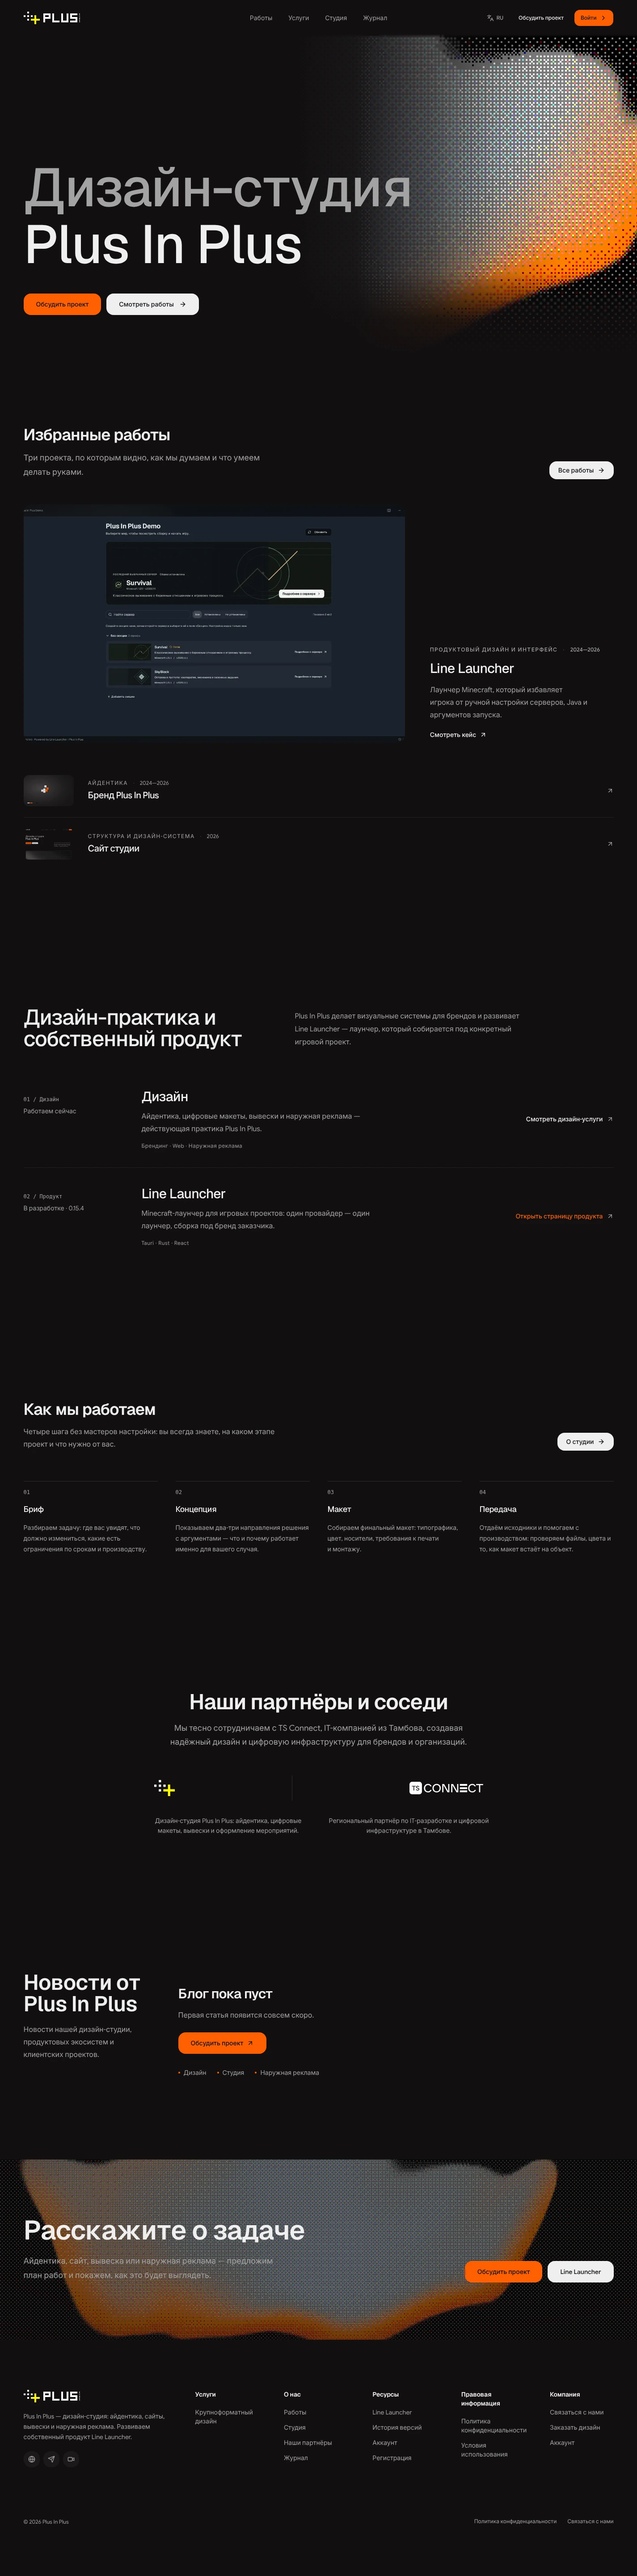
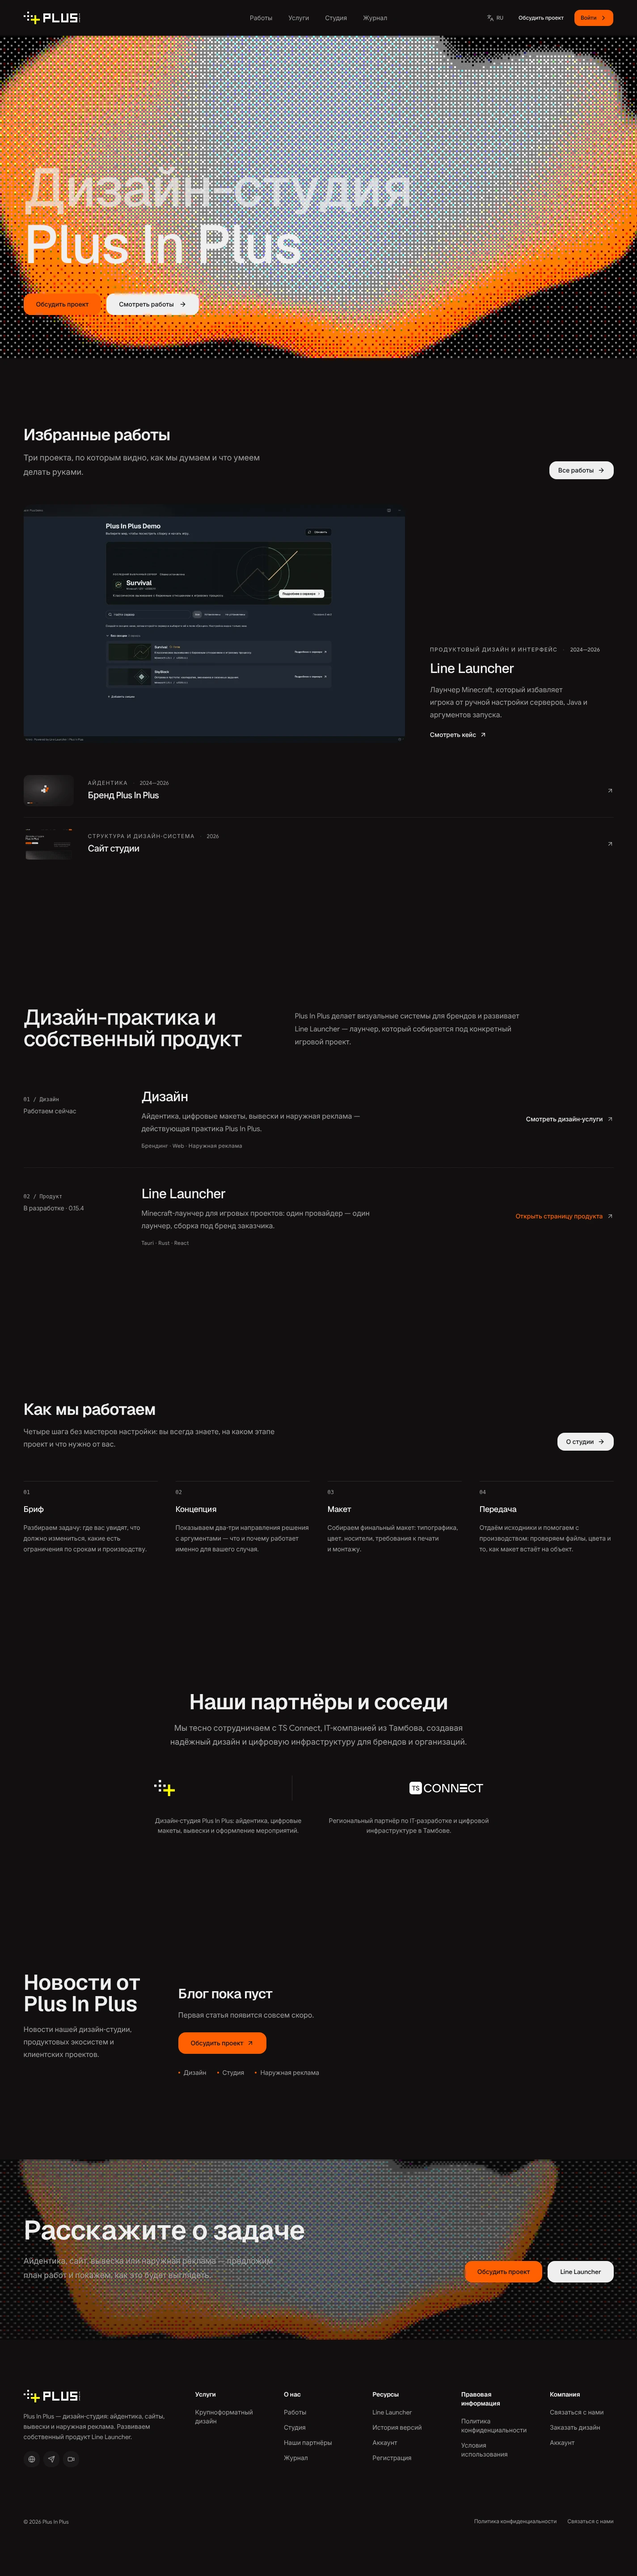
Hero: градиент владельца без масок, скримов и подложек
- SectionGlow получил mask и canvasFromPreset: в hero маска выключена, а база
  холста берётся из присланного градиента. Скримы, сдвиг света вправо и нижнее
  затухание убраны.
- Починен presetConfig: он читал HAZEGLOW_LINKS[preset] вместо
  HAZEGLOW_LINKS[presetFor(preset)], поэтому hero рисовал проектную палитру
  вместо авторского градиента.
- Заголовок: приглушённая строка переведена с #6B6364 на #EEEEEE в 70 % —
  на светлой части градиента прежний серый не проходил по контрасту.

Changed region(s): [[0.0, 0.0, 0.9263, 0.1555], [0.0, 0.8395, 1.0, 0.9017]]

diff --git a/components/site/section-glow.tsx b/components/site/section-glow.tsx
@@ -40,6 +40,7 @@ function buildConfig(
   variant: SectionGlowVariant,
   effectSize: number,
   preset: HazeglowPreset,
+  canvasFromPreset: boolean,
 ): GradientConfig {
   const ascii = variant === "ascii";
   // Краски берутся из присланного градиента, правила проекта — поверх него.
@@ -94,6 +95,10 @@ interface SectionGlowProps {
    * берётся фон сайта, а не придуманный агентом.
    */
   preset?: HazeglowPreset;
+  /** Маска по краям. В hero выключается: градиент владельца не обрезается. */
+  mask?: boolean;
+  /** База холста из присланного градиента, а не из палитры проекта. */
+  canvasFromPreset?: boolean;
   /** Ячейка в CSS-пикселях: по умолчанию крупная печатная. */
   cell?: number;
   /** Прозрачность слоя: чем плотнее текст над ним, тем тише фон. */
@@ -104,6 +109,8 @@ export function SectionGlow({
   className,
   variant = "dither",
   preset = "site",
+  mask = true,
+  canvasFromPreset = false,
   cell = HAZEGLOW_CELL.section,
   intensity = 0.55,
 }: SectionGlowProps) {
@@ -139,15 +146,19 @@ export function SectionGlow({
     >
       <div
         className="size-full"
-        style={{
-          maskImage:
-            "radial-gradient(125% 130% at 54% 36%, #000 0%, #000 40%, rgba(0,0,0,0.72) 66%, rgba(0,0,0,0.22) 86%, transparent 97%)",
-          WebkitMaskImage:
-            "radial-gradient(125% 130% at 54% 36%, #000 0%, #000 40%, rgba(0,0,0,0.72) 66%, rgba(0,0,0,0.22) 86%, transparent 97%)",
-        }}
+        style={
+          mask
+            ? {
+                maskImage:
+                  "radial-gradient(125% 130% at 54% 36%, #000 0%, #000 40%, rgba(0,0,0,0.72) 66%, rgba(0,0,0,0.22) 86%, transparent 97%)",
+                WebkitMaskImage:
+                  "radial-gradient(125% 130% at 54% 36%, #000 0%, #000 40%, rgba(0,0,0,0.72) 66%, rgba(0,0,0,0.22) 86%, transparent 97%)",
+              }
+            : undefined
+        }
       >
         <Hazeglow
-          config={buildConfig(variant, effectSize, preset)}
+          config={buildConfig(variant, effectSize, preset, canvasFromPreset)}
           className="size-full"
         />
       </div>

diff --git a/components/blocks/hero138.tsx b/components/blocks/hero138.tsx
@@ -48,25 +48,14 @@ const Hero138 = ({
         className,
       )}
     >
+      {/* Градиент владельца лежит всей секцией: без маски, скримов и сдвигов. */}
       <SectionGlow
         variant="dither"
         preset="hero"
         cell={HAZEGLOW_CELL.hero}
+        mask={false}
+        canvasFromPreset
         intensity={1}
-      />
-      {/* Скрим только под типографикой: правый край отдан растру. */}
-      <div
-        aria-hidden="true"
-        className="pointer-events-none absolute inset-0 bg-[linear-gradient(180deg,rgba(17,15,16,0.12)_0%,rgba(17,15,16,0.36)_28%,rgba(17,15,16,0.86)_42%,#110f10_54%)] lg:hidden"
-      />
-      <div
-        aria-hidden="true"
-        className="pointer-events-none absolute inset-0 hidden bg-[linear-gradient(90deg,#110f10_0%,#110f10_46%,rgba(17,15,16,0.95)_56%,rgba(17,15,16,0.62)_68%,rgba(17,15,16,0.18)_79%,rgba(17,15,16,0)_88%)] lg:block"
-      />
-      {/* Нижняя кромка растворяется, иначе на границе секции виден шов. */}
-      <div
-        aria-hidden="true"
-        className="pointer-events-none absolute inset-x-0 bottom-0 h-48 bg-[linear-gradient(to_top,#110f10_0%,rgba(17,15,16,0.85)_45%,rgba(17,15,16,0)_100%)]"
       />
       <div className="container relative z-10">
         <h1 className="text-5xl leading-[0.92] font-medium tracking-tight text-balance sm:text-6xl md:text-7xl lg:text-[7.5rem]">
@@ -74,7 +63,7 @@ const Hero138 = ({
             text={headingMuted}
             trigger="mount"
             seed={3}
-            className="block text-muted-foreground"
+            className="block text-foreground/70"
           />
           <DecryptText
             text={headingPrimary}

diff --git a/lib/hazeglow-presets.ts b/lib/hazeglow-presets.ts
@@ -83,7 +83,7 @@ function payloadOf(link: string): string | null {
 export function presetConfig(
   preset: HazeglowPreset,
 ): Partial<GradientConfig> | null {
-  const link = HAZEGLOW_LINKS[preset];
+  const link = HAZEGLOW_LINKS[presetFor(preset)];
   const payload = link ? payloadOf(link) : null;
   if (!payload) return null;
   const base64 = payload.replace(/-/g, "+").replace(/_/g, "/");
